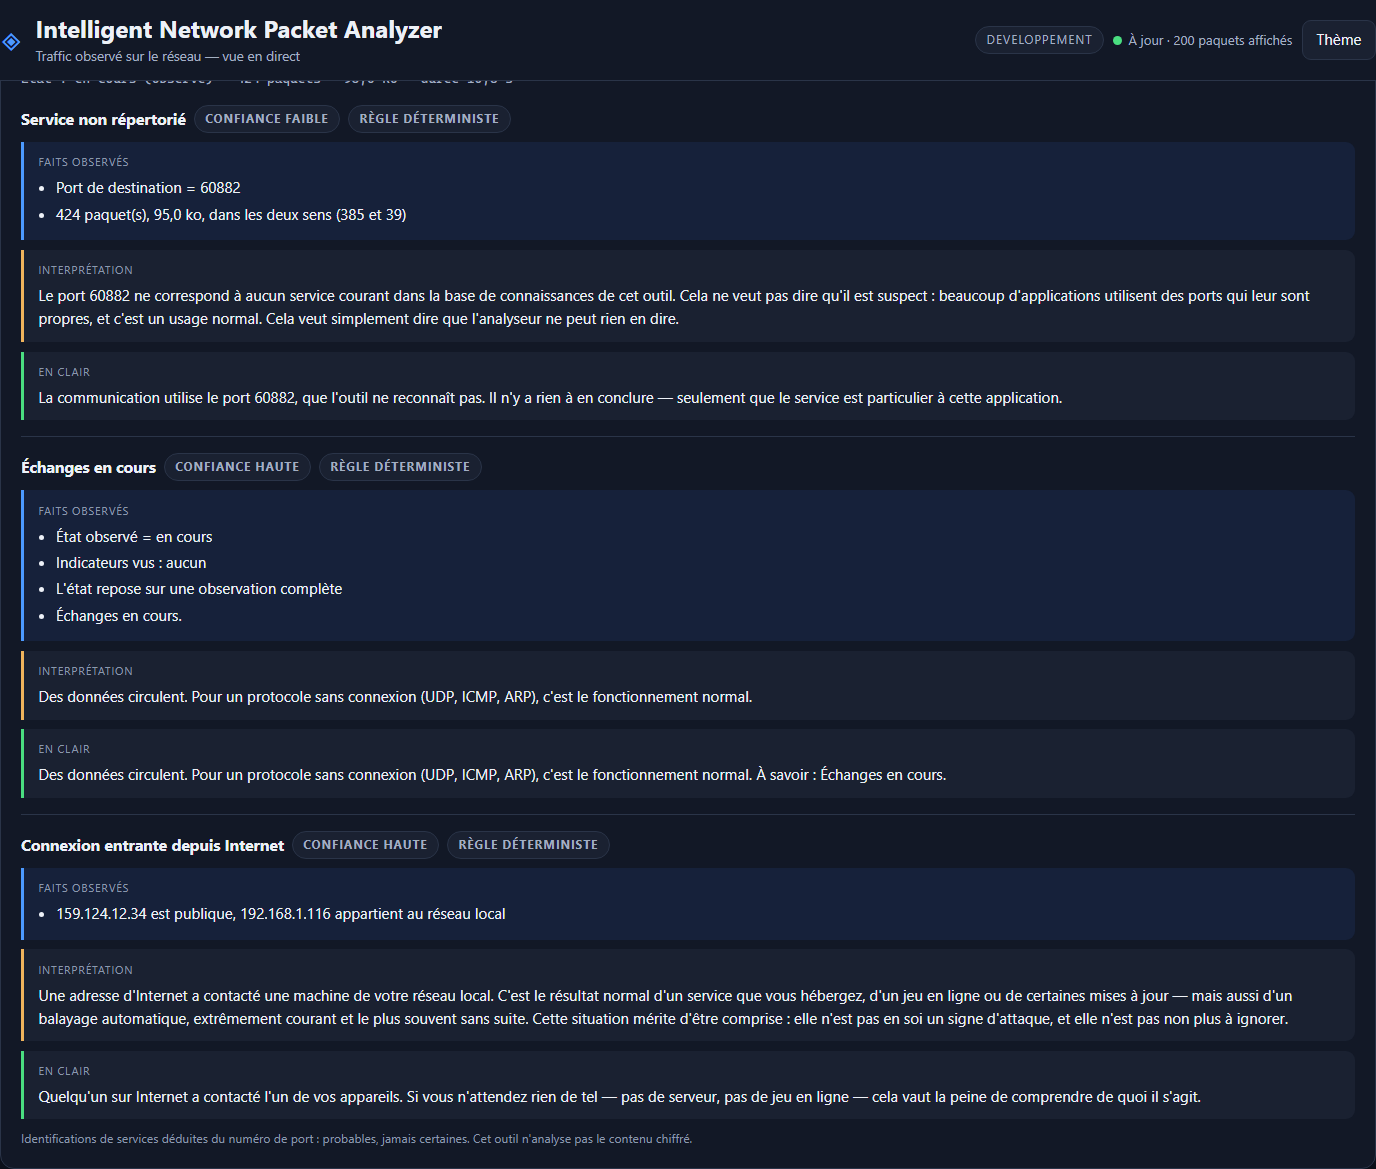
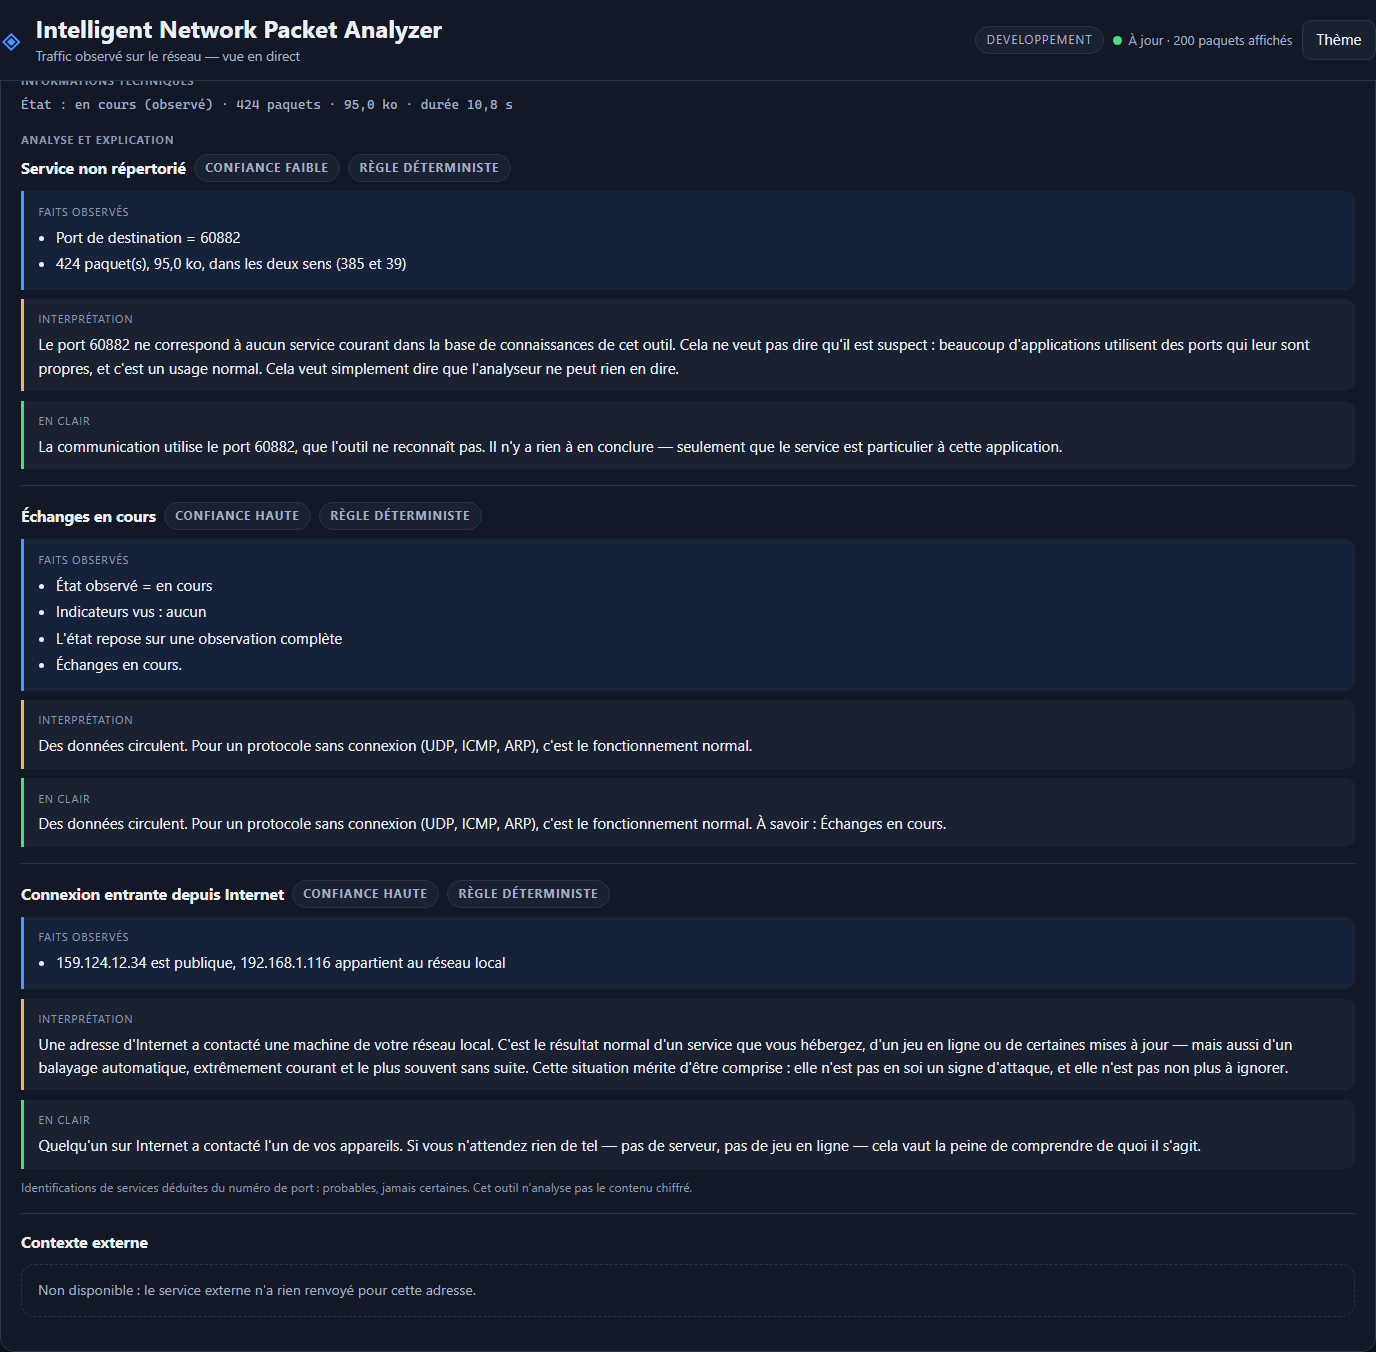
feat(web): blocs du detail nommes et contexte externe affiche
PARAGRAPHE 9 : les blocs du detail portent leur nom - Informations techniques, Analyse et
explication. Faits observes et Interpretation portaient deja le leur ; c'est le reste qui ne
le portait pas, et un lecteur qui decouvre l'ecran ne sait pas ce qu'il regarde.

PARAGRAPHE 8, ETAPE 7 DE LA DEMONSTRATION : le panneau interroge /api/v1/enrichment pour
l'adresse publique de la communication et affiche pays, organisation, reseau, reputation,
signalements et source.

UNE SEULE ADRESSE EST ENRICHIE, CELLE QUI N'APPARTIENT PAS AU RESEAU LOCAL. Envoyer une
adresse privee a un service externe ne renseignerait personne et revelerait la structure du
reseau observe. Le module d'enrichissement la refuserait de toute facon - mais on ne la
demande meme pas.

L'ABSENCE DE RESULTAT EST ANNONCEE TELLE QUELLE. « Non disponible » n'est pas « rien a
signaler » : confondre les deux ferait croire qu'une adresse est propre alors que le service
n'a pas repondu. L'attente est visible, et l'echec est ecrit avec son motif.

L'AJOUT EST ADDITIF : rien de l'existant n'a ete reorganise. Une refonte du panneau aurait fait
courir le risque de casser une vue qui fonctionne, pour un gain de presentation.

CE QUI RESTE IMPARFAIT, ecrit plutot que sous-entendu : les quatre blocs sont NOMMES mais pas
encore SEPARES en quatre panneaux. L'etat et la certitude restent sur la ligne des
informations techniques au lieu de former un bloc Risque / etat distinct.

50/50 verifications navigateur.

Changed region(s): [[0.0, 0.308, 0.9375, 0.9855], [0.0, 0.0, 0.9375, 0.2772], [0.7188, 0.0, 1.0, 0.0616]]

diff --git a/web/static/dashboard.js b/web/static/dashboard.js
@@ -664,6 +664,102 @@
     return enveloppe;
   }
 
+  /** Pose un intitulé juste avant un élément, sans toucher au reste de la page. */
+  function intituler(element, texte) {
+    if (!element || !element.parentElement) return;
+    const titre = document.createElement("h3");
+    titre.className = "bloc-intitule";
+    titre.textContent = texte;
+    element.parentElement.insertBefore(titre, element);
+  }
+
+  /**
+   * Le contexte externe d'une adresse — paragraphe 8 du sujet.
+   *
+   * Une seule adresse est enrichie : celle qui n'appartient pas au réseau local. Envoyer une
+   * adresse privée à un service externe ne renseignerait personne, et révélerait la structure
+   * du réseau observé — le module d'enrichissement la refuserait de toute façon, mais on ne
+   * la demande même pas.
+   *
+   * L'absence de résultat est annoncée telle quelle : « non disponible » n'est pas la même
+   * chose que « rien à signaler », et confondre les deux ferait croire à une adresse propre.
+   */
+  async function rendreExterne(communication) {
+    const conteneur = zone.detailCorps;
+    if (!conteneur) return;
+
+    const candidates = [communication.ip_b, communication.ip_a].filter(Boolean);
+    const privee = (adresse) => /^(10\.|192\.168\.|172\.(1[6-9]|2[0-9]|3[01])\.|127\.|fe80:|f[cd])/i.test(String(adresse));
+    const externe = candidates.find((adresse) => !privee(adresse));
+
+    const bloc_ = document.createElement("div");
+    bloc_.className = "explication";
+
+    const titre = document.createElement("h4");
+    titre.className = "explication-titre";
+    titre.textContent = "Contexte externe";
+    bloc_.appendChild(titre);
+
+    if (!externe) {
+      const corps = document.createElement("p");
+      corps.className = "aide";
+      corps.textContent = "Aucune adresse publique dans cette communication : rien n'est "
+        + "envoyé à un service externe, et il n'y a donc rien à en dire.";
+      bloc_.appendChild(corps);
+      return conteneur.appendChild(bloc_);
+    }
+
+    const attente = document.createElement("p");
+    attente.className = "aide";
+    attente.textContent = `Interrogation du service externe pour ${externe}…`;
+    bloc_.appendChild(attente);
+
+    try {
+      const reponse = await fetch(`/api/v1/enrichment?ip=${encodeURIComponent(externe)}`,
+                                  { headers: { Accept: "application/json" } });
+      const donnees = await reponse.json();
+      attente.remove();
+
+      if (donnees.enrichi) {
+        const table = document.createElement("dl");
+        table.className = "liste-faits";
+        const champs = [
+          ["Adresse", donnees.ip],
+          ["Pays", donnees.pays],
+          ["Organisation", donnees.organisation],
+          ["Réseau", donnees.reseau],
+          ["Réputation", donnees.reputation],
+          ["Signalements", donnees.signalements],
+          ["Source", donnees.source],
+        ];
+        champs.forEach(([nom, valeur]) => {
+          if (valeur === undefined || valeur === null || valeur === "") return;
+          const terme = document.createElement("dt");
+          terme.textContent = nom;
+          const definition = document.createElement("dd");
+          definition.textContent = String(valeur);
+          table.appendChild(terme);
+          table.appendChild(definition);
+        });
+        bloc_.appendChild(table);
+      } else {
+        const corps = document.createElement("p");
+        corps.className = "aide";
+        corps.textContent = donnees.message
+          ? `Non disponible : ${donnees.message}`
+          : "Non disponible : le service externe n'a rien renvoyé pour cette adresse.";
+        bloc_.appendChild(corps);
+      }
+    } catch (erreur) {
+      attente.remove();
+      const corps = document.createElement("p");
+      corps.className = "aide";
+      corps.textContent = `Non disponible : ${erreur.message}.`;
+      bloc_.appendChild(corps);
+    }
+    conteneur.appendChild(bloc_);
+  }
+
   function rendreDetail(donnees) {
     zone.detailCorps.textContent = "";
 
@@ -678,6 +774,12 @@
       + (communication.etat_certain ? " (observé)" : " (déduit)")
       + ` · ${communication.paquets_total || 0} paquets · `
       + `${formaterOctets(communication.octets_total || 0)} · durée ${duree}`;
+
+    // Les quatre blocs du paragraphe 9 sont **nommés** dans le panneau. Les informations et
+    // l'explication existaient déjà, mais rien ne les intitulait : un lecteur qui découvre
+    // l'écran ne sait pas ce qu'il regarde.
+    intituler(zone.detailResume, "Informations techniques");
+    intituler(zone.detailCorps, "Analyse et explication");
 
     for (const explication of donnees.explications || []) {
       const enveloppe = document.createElement("div");
@@ -708,6 +810,8 @@
 
       zone.detailCorps.appendChild(enveloppe);
     }
+
+    rendreExterne(communication);
 
     // Rappel systématique : c'est la phrase qui protège le lecteur d'une conclusion trop
     // rapide, et elle doit être présente même quand la confiance est haute.

diff --git a/web/static/dashboard.css b/web/static/dashboard.css
@@ -614,6 +614,18 @@
   word-break: break-word;
 }
 
+/* La liste des faits enrichis : un terme, sa valeur. */
+.liste-faits {
+  display: grid;
+  grid-template-columns: minmax(0, 9rem) minmax(0, 1fr);
+  gap: .2rem .75rem;
+  margin: .4rem 0 0;
+  font-size: .85rem;
+}
+
+.liste-faits dt { color: var(--texte-doux); }
+.liste-faits dd { margin: 0; overflow-wrap: anywhere; }
+
 .explication {
   border-top: 1px solid var(--bord);
   padding-top: 1rem;

diff --git a/docs/DEFENSE.md b/docs/DEFENSE.md
@@ -1574,3 +1574,64 @@ l'adresse : chaque vue a la sienne, et se partage.
 Parce qu'elle n'est pas une information sur le trafic : c'est le contrôle qui **produit** le
 trafic. La ranger dans une vue ferait qu'on ne pourrait plus l'arrêter depuis les autres —
 c'est-à-dire au moment précis où l'on regarde autre chose.
+
+
+---
+
+# Vue détaillée : les blocs nommés, et le contexte externe
+
+## Ce qui a été ajouté
+
+**Les blocs du §9 sont maintenant intitulés** dans le panneau de détail : *Informations
+techniques* au-dessus des chiffres mesurés, *Analyse et explication* au-dessus des
+explications. Les blocs *Faits observés* et *Interprétation* portaient déjà leur nom — c'est le
+reste qui ne le portait pas, et un lecteur qui découvre l'écran ne sait pas ce qu'il regarde.
+
+**Le contexte externe** (§8, étape 7 de la démonstration) : le panneau interroge
+`/api/v1/enrichment` pour l'adresse publique de la communication et affiche ce que le service
+renvoie — pays, organisation, réseau, réputation, signalements, source.
+
+## Pourquoi ces choix
+
+**Une seule adresse est enrichie : celle qui n'appartient pas au réseau local.** Envoyer une
+adresse privée à un service externe ne renseignerait personne et révélerait la structure du
+réseau observé. Le module d'enrichissement la refuserait de toute façon — mais on ne la demande
+même pas.
+
+**L'absence de résultat est annoncée telle quelle.** « Non disponible » n'est pas la même chose
+que « rien à signaler » : confondre les deux ferait croire qu'une adresse est propre alors que
+le service n'a simplement pas répondu. L'attente est visible (« interrogation… »), et l'échec
+est écrit avec son motif.
+
+**L'ajout est additif.** Rien de l'existant n'a été réorganisé : les intitulés sont posés
+au-dessus de ce qui était déjà là. Une refonte du panneau aurait fait courir le risque de
+casser une vue qui fonctionne, pour un gain de présentation.
+
+## Ce qui reste imparfait — écrit ici plutôt que sous-entendu
+
+Les quatre blocs du §9 sont **nommés**, mais pas encore **séparés en quatre panneaux** :
+l'état de la communication et sa certitude restent sur la ligne des informations techniques au
+lieu de former un bloc *Risque / état* distinct. C'est suffisant pour une lecture, insuffisant
+pour une démonstration qui veut montrer les quatre blocs l'un après l'autre.
+
+## Trois questions de défense
+
+**1. Pourquoi enrichir une seule adresse et pas les deux ?**
+
+Parce que l'autre est celle du réseau local, et qu'un service externe ne connaît pas votre
+réseau. Lui envoyer `192.168.1.116` reviendrait à lui transmettre la structure interne du
+réseau observé pour ne rien apprendre en retour.
+
+**2. Que se passe-t-il si l'API externe est absente ou en panne ?**
+
+Le panneau écrit « non disponible » avec le motif, et la communication reste entièrement
+lisible : les informations techniques, l'explication et les faits observés ne dépendent pas du
+service externe. L'enrichissement **ajoute**, il ne conditionne rien — c'est ce qui permet à
+l'outil de fonctionner sur un réseau isolé.
+
+**3. Pourquoi ne pas avoir fusionné les explications en un seul bloc ?**
+
+Parce qu'une communication peut porter **plusieurs** explications, chacune avec son niveau de
+confiance et sa source (règle écrite ou reformulation par IA). Les fondre en un texte unique
+ferait perdre cette distinction — or c'est précisément ce que le §4 demande de préserver :
+savoir ce qui est observé et ce qui est interprété.

diff --git a/README.md b/README.md
@@ -311,6 +311,16 @@ connexions : ces paquets ne seront jamais nommés, et rien n'est inventé pour c
 À l'écran, des barres CSS portent le chiffre écrit à côté : lisible par un lecteur d'écran,
 et sans bibliothèque de graphiques à charger.
 
+## Le détail d'une communication, et son contexte externe
+
+Le panneau de détail intitule ses blocs comme le §9 les nomme — **Informations techniques**,
+**Analyse et explication** — et affiche le **contexte externe** de l'adresse publique :
+pays, organisation, réseau, réputation, signalements, source.
+
+Seule l'adresse **publique** est envoyée au service : une adresse privée ne renseignerait
+personne et révélerait la structure du réseau observé. Et l'absence de réponse est écrite
+« non disponible » avec son motif — distincte de « rien à signaler ».
+
 ## Profils d'analyse
 
 Un profil est un **nom**, un **filtre** et une **phrase qui dit à quoi il sert**. Cinq sont
@@ -530,7 +540,7 @@ from backend.explain import explications     # toutes les explications applicabl
 .venv\Scripts\python.exe -m pytest tests/ -q
 ```
 
-**375 tests** · **48 vérifications navigateur**, dont :
+**375 tests** · **50 vérifications navigateur**, dont :
 
 - **parseur** — poignée de main TCP complète, SYN sans réponse, RST, DNS (question et
   réponse), mDNS sans section question, ICMP, ARP, UDP, IPv6, paquet tronqué, protocole
